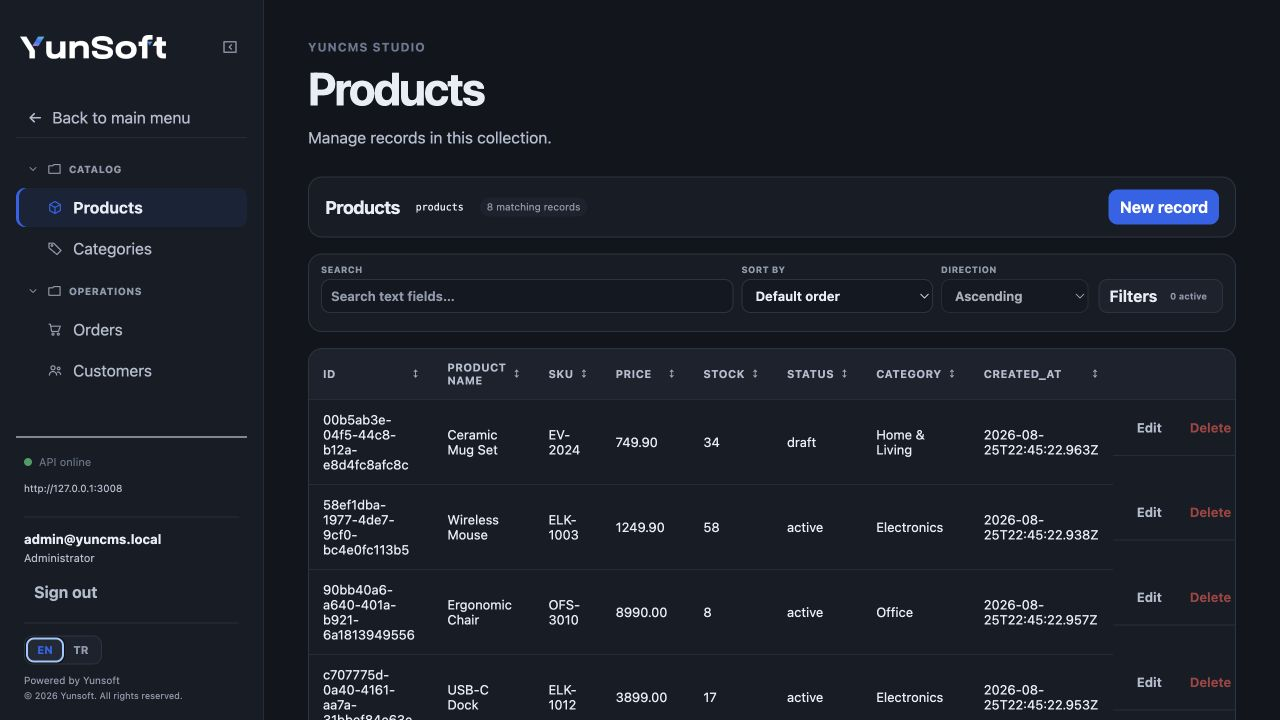
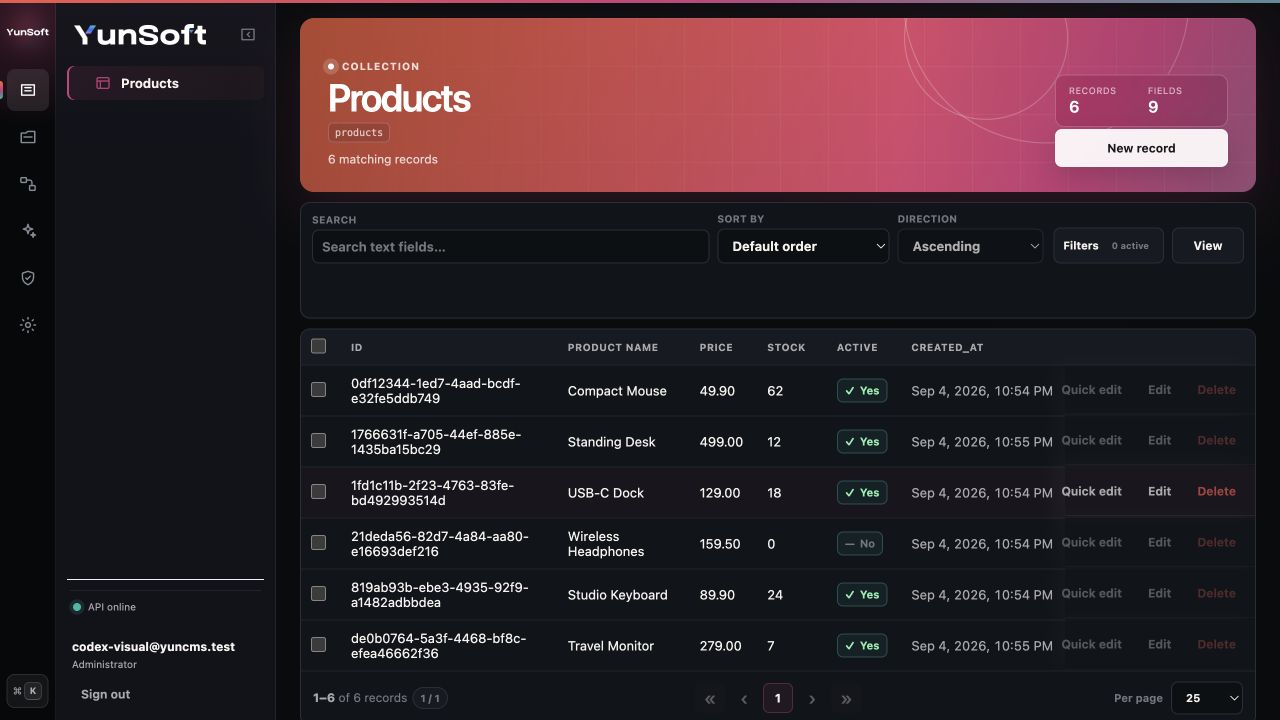
docs: refresh Studio release visuals

diff --git a/docs/studio-next-roadmap.md b/docs/studio-next-roadmap.md
@@ -31,7 +31,7 @@ The layout is intended to keep context visible, reduce repeated headings and nes
 
 ### Workbench first
 
-Routine screens should prioritize the actual work surface. Large dashboard-style titles, repeated descriptions and stacked cards should not push content below the fold.
+Routine screens prioritize the actual work surface. Content and Data Model may use one bounded identity surface at the top of the workspace, but repeated descriptions, metric-card grids and stacked dashboard panels must not push the useful data out of view.
 
 ### Context stays visible
 
@@ -43,7 +43,7 @@ Tables and schema lists should make better use of desktop space while keeping cl
 
 ### Motion explains state
 
-Animation should communicate navigation, selection, saving, uploading, filtering or structural change. Decorative motion, continuous glow effects and unnecessary transitions do not belong in routine work surfaces.
+Animation should communicate navigation, selection, saving, uploading, filtering or structural change. Slow ambient movement is reserved for the spectrum line and the two identity surfaces; tables, forms and routine cards remain still. Every motion layer must have a reduced-motion fallback.
 
 ### One visual system
 
@@ -53,9 +53,9 @@ Light mode, dark mode, appearance customization, responsive layouts, dialogs, ta
 
 Content is the primary Studio workspace and will receive the largest usability improvement.
 
-Planned behavior:
+Current behavior:
 
-- compact collection header with record count and primary action;
+- bounded collection identity header with record and field counts plus the primary action;
 - integrated search, filters, sorting, columns and density controls;
 - filters shown in a popover or sheet instead of a permanently expanded form;
 - sticky table header;
@@ -204,7 +204,7 @@ Detailed permission editing will provide visual field selection and rule buildin
 
 ## AI workspace
 
-The AI workspace will continue to respect normal YunCMS permissions and access modes. The interface will emphasize the actual operations performed by the assistant rather than decorative AI styling.
+The AI workspace continues to respect normal YunCMS permissions and access modes. The interface emphasizes the actual operations performed by the assistant rather than decorative chat bubbles. When AI is not configured, Studio shows one bounded setup surface instead of an empty disabled conversation canvas.
 
 Useful operation feedback includes:
 
@@ -231,9 +231,11 @@ Keyboard navigation should work consistently with arrow keys, Enter and Escape.
 
 ## Visual system
 
-Studio will move toward semantic design tokens for surfaces, text, borders, focus, selection and state colors.
+Studio uses semantic design tokens for surfaces, text, borders, focus, selection and state colors.
 
-The existing appearance accent remains useful, but accent color should be reserved for selection, primary actions, focus and active navigation rather than being applied to every badge or card.
+The product spectrum is coral `#ff6238`, magenta `#ca3e7b` and teal `#16b8a6`. It appears on collection/model identity, navigation state and live feedback. Light mode uses warm paper-like surfaces; dark mode uses near-black neutral surfaces. Dense data areas stay quiet and high-contrast in both modes.
+
+The existing appearance accent remains useful for project-specific selection and focus. Primary actions may use a neutral ink/paper treatment when that gives better hierarchy than another saturated color. Gradients are never used as generic card decoration.
 
 Recommended interface scale:
 
@@ -243,11 +245,12 @@ Recommended interface scale:
 13px  dense data rows
 14px  standard controls and copy
 16px  section headings
-20px  workspace titles
-24–28px exceptional top-level or authentication headings
+20px  routine workspace titles
+24–28px authentication and setup headings
+30–43px bounded Content/Data Model identity headings only
 ```
 
-Routine workspaces should not use oversized dashboard headings.
+Routine workspaces should not use oversized dashboard headings or repeat the identity treatment inside nested panels.
 
 ## Motion and feedback
 
@@ -258,6 +261,7 @@ Typical ranges:
 - micro state changes: about 110 ms;
 - selection, menus and inspector movement: about 160 ms;
 - larger workspace transitions: about 210 ms.
+- ambient identity movement: about 8–14 seconds, limited to the spectrum line and identity surfaces.
 
 Examples:
 

diff --git a/todo.md b/todo.md
@@ -2,9 +2,6 @@
 
 These checks require a local checkout and browser environment. Complete them before merging the Studio Next changes into the main branch, then remove this file when the checklist is empty.
 
-- [ ] Run the Studio test suite and confirm the shell, workspace, command palette, schema graph, shared-component, file-category, upload-queue, permission-rule and native-dialog contracts pass with the existing navigation, appearance, routing, mobile and accessibility tests.
-- [ ] Run the Studio production build and confirm there are no Vite, JSX, CSS import or React warnings introduced by the application frame and workspace layers.
-- [ ] Smoke-test Content at desktop widths around 1440px and 1280px. Confirm the application rail, collection context rail, compact controls, table controls and collection navigation remain usable.
 - [ ] In Content, verify row click opens the quick inspector, saving refreshes the list, opening the full editor keeps the existing deep-link route, and Escape/focus return work correctly.
 - [ ] In Content, verify current-page selection, select-all, bulk delete confirmation, partial delete errors, pagination resets and inspector selection do not interfere with one another.
 - [ ] In Content, verify relation fields and relation filters use the searchable relation picker, including required values, optional empty values and existing values that are not present in the first lookup page.
@@ -27,6 +24,4 @@ These checks require a local checkout and browser environment. Complete them bef
 - [ ] Smoke-test mobile widths around 390px and 430px. Confirm the bottom application rail does not cover forms, pagination, dialogs or destructive actions and the graph, asset, permission and inspector layouts remain usable.
 - [ ] Verify keyboard focus on every application-rail destination and confirm active destinations expose `aria-current="page"`.
 - [ ] Verify reduced-motion mode disables shell, graph, palette, inspector and workspace transitions without removing state feedback.
-- [ ] Check light mode, dark mode and at least one customized accent color for contrast and selected-state clarity.
 - [ ] Smoke-test a browser without CSS `:has()` support within the intended compatibility range and confirm explicit route/auth shell classes preserve Files, AI, Data Model and authentication layouts.
-- [ ] Capture replacement Studio screenshots only after the workbench layout is stable enough to represent the shipped interface.

diff --git a/plan.md b/plan.md
@@ -1,0 +1,31 @@
+# YunCMS plan
+
+This file is the source of truth for implementation and release status. Detailed product behavior belongs in `docs/`; checks that are blocked on a particular browser, credential or external service belong in `todo.md`.
+
+## Product baseline
+
+- [x] Node.js 24, Express 5 and MySQL-only REST runtime.
+- [x] Direct service layer for items, collections, fields, relations, users and files.
+- [x] Explicit accountability, RBAC, authentication/session handling and public access boundaries.
+- [x] React Studio workbenches for Content, Files, Data Model, AI, Access and Settings.
+- [x] Extension helpers, AI integration and MCP runtime with permission-aware service access.
+- [x] Operator and developer documentation under `docs/`.
+
+## 0.1.15 — Studio kinetic visual system
+
+- [x] Establish the coral–magenta–teal product spectrum and warm-light/near-black-dark surfaces.
+- [x] Add bounded Content and Data Model identity surfaces without turning data panels into decorative cards.
+- [x] Keep default Content columns readable while preserving every field in View options.
+- [x] Align inspectors, actions, Files, Access, Appearance and the AI setup state with the shared visual language.
+- [x] Add restrained ambient motion with a complete reduced-motion fallback.
+- [x] Verify light, dark and customized-accent presentation in a real browser.
+- [x] Verify 390, 430, 760, 768, 1024, 1280 and 1440 pixel layout boundaries without horizontal overflow.
+- [x] Replace desktop and mobile Studio documentation screenshots with the release-candidate interface.
+- [x] Pass the fast and complete source suites.
+- [x] Pass `npm run test:release` after the final version update, including real MySQL/API integration.
+- [ ] Publish the public npm packages and verify the registry versions.
+
+## After this release
+
+- [ ] Complete only the environment-dependent verification items that remain in `todo.md` when the relevant environment is available.
+- [ ] Add new platform features only when a real project establishes the requirement and update this plan before implementation.

diff --git a/docs/studio.md b/docs/studio.md
@@ -74,7 +74,7 @@ Select a collection directly from **Content** to work with its records.
 
 ![YunCMS Content workspace](assets/screenshots/studio-content.png)
 
-The Content workbench provides:
+The Content workbench opens with a bounded collection identity surface showing live record and field counts, followed immediately by the quiet data controls and table/card work area. It provides:
 
 - record table/list navigation;
 - create and full-page edit routes;
@@ -97,7 +97,7 @@ Only operations allowed by your effective role are available. If an API permissi
 
 Search uses readable text fields in the current collection. Filters can be added without keeping the full filter builder permanently open, and active filters remain visible as removable chips.
 
-The **View** control lets you choose which table columns are visible and switch between compact, comfortable and relaxed row density. At least one table column remains visible.
+The **View** control lets you choose which table columns are visible and switch between compact, comfortable and relaxed row density. Studio initially shows the first six useful table columns to keep row actions readable; any additional managed or project fields remain available from **View**. At least one table column remains visible.
 
 Column sorting is applied through the normal Items API query behavior. These presentation controls do not change collection schema or stored records.
 

diff --git a/docs/studio-customization.md b/docs/studio-customization.md
@@ -109,7 +109,7 @@ The Data Model follows the same overall principle for collection/field labels: h
 
 # Accent and theme
 
-The accent is a validated six-digit hex color. Studio maps it to shared CSS variables used for primary actions, active navigation, focus states and lightweight badges.
+The accent is a validated six-digit hex color. Studio maps it to shared CSS variables used for project-specific selection, focus states and lightweight badges. YunCMS' coral–magenta–teal product spectrum remains reserved for identity, navigation and live feedback, while primary actions may use a neutral ink/paper treatment for stronger contrast.
 
 Theme values:
 
